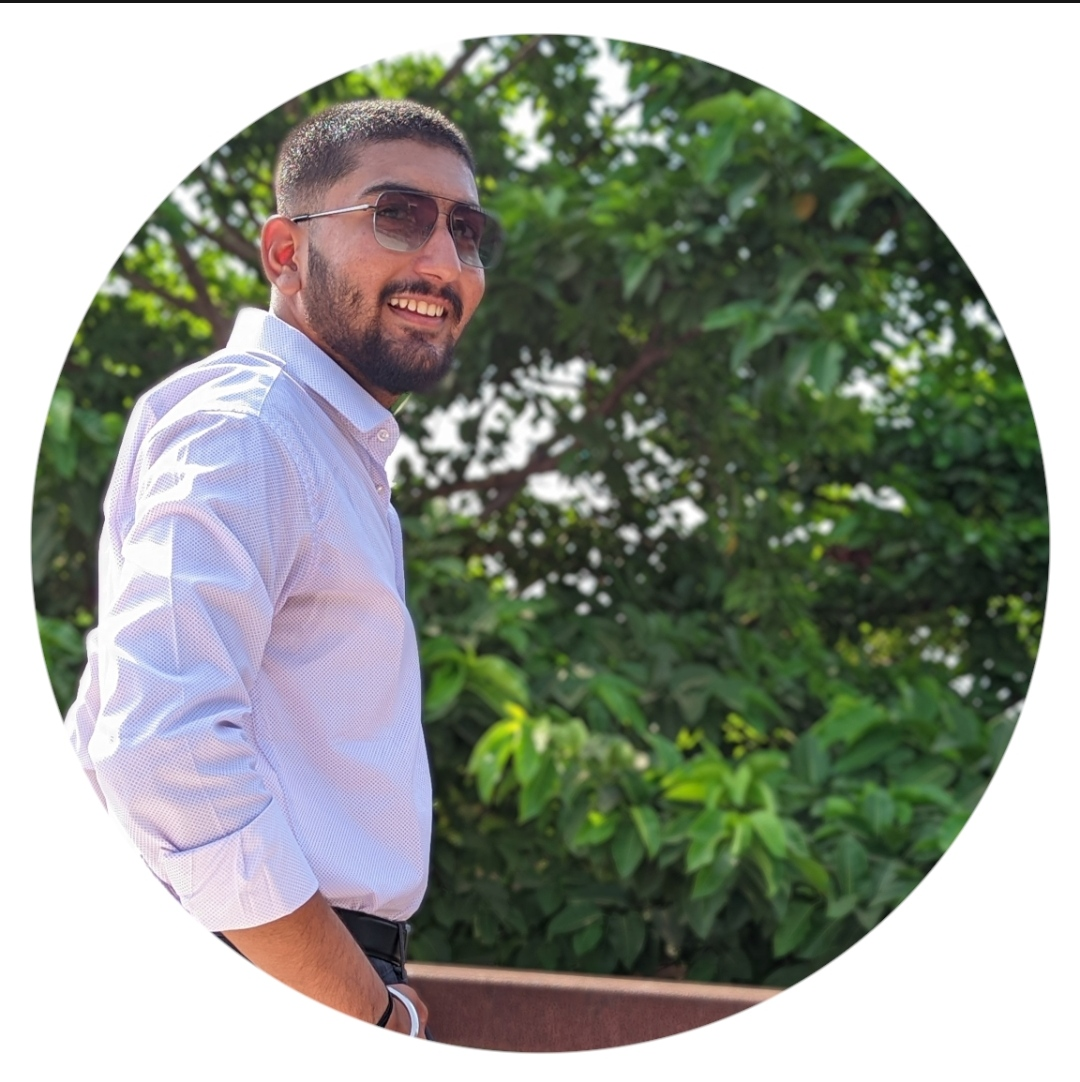
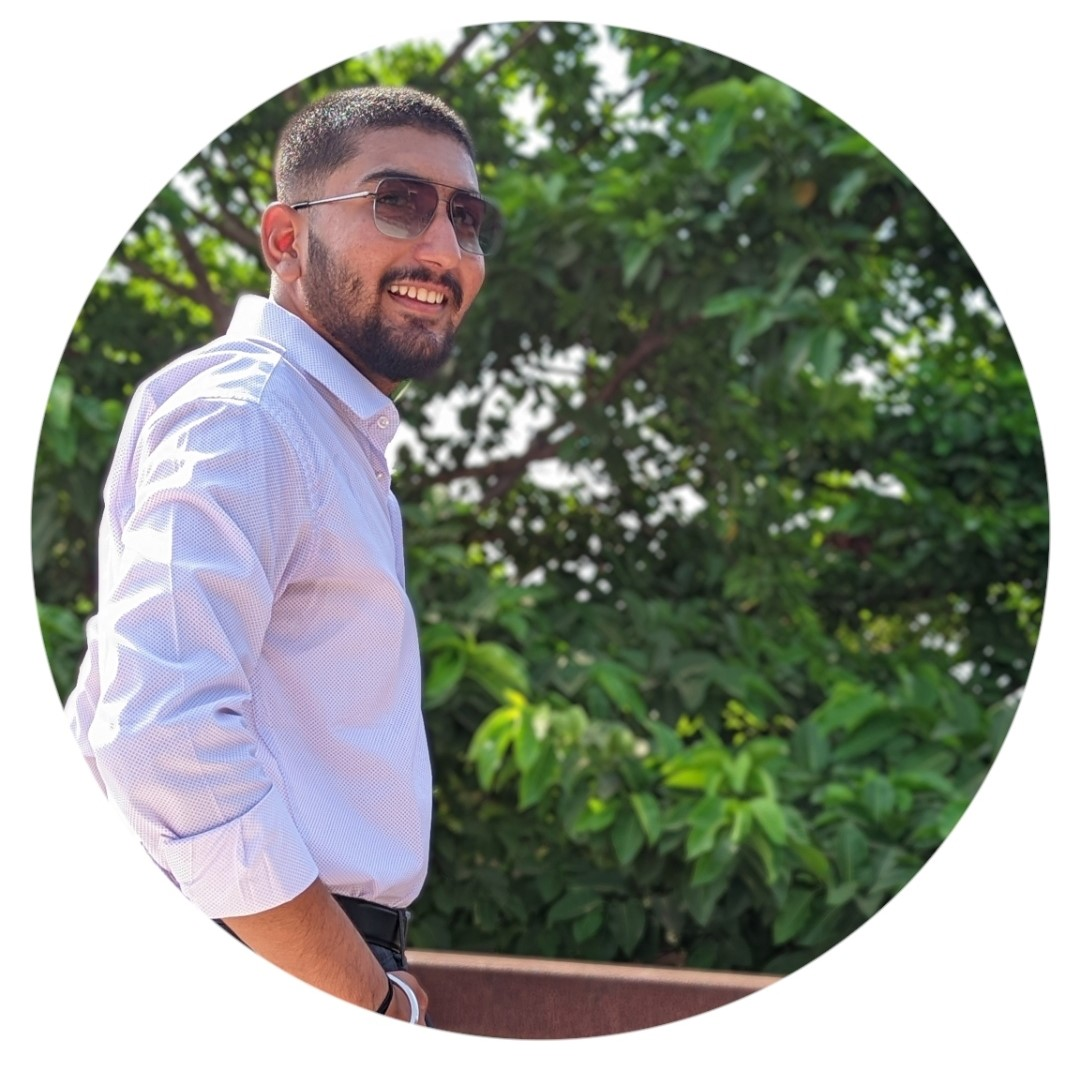
update

diff --git a/index.html b/index.html
@@ -101,7 +101,7 @@
                   <div class="row">
                     <div class="col-sm-6 col-md-5">
                       <div class="about-img">
-                        <img src="assets/img/profile.jpg" class="img-fluid rounded b-shadow-a" alt="">
+                        <img src="assets/img/profile round.jpg" class="img-fluid rounded b-shadow-a" alt="">
                       </div>
                     </div>
                     <div class="col-sm-6 col-md-7">
